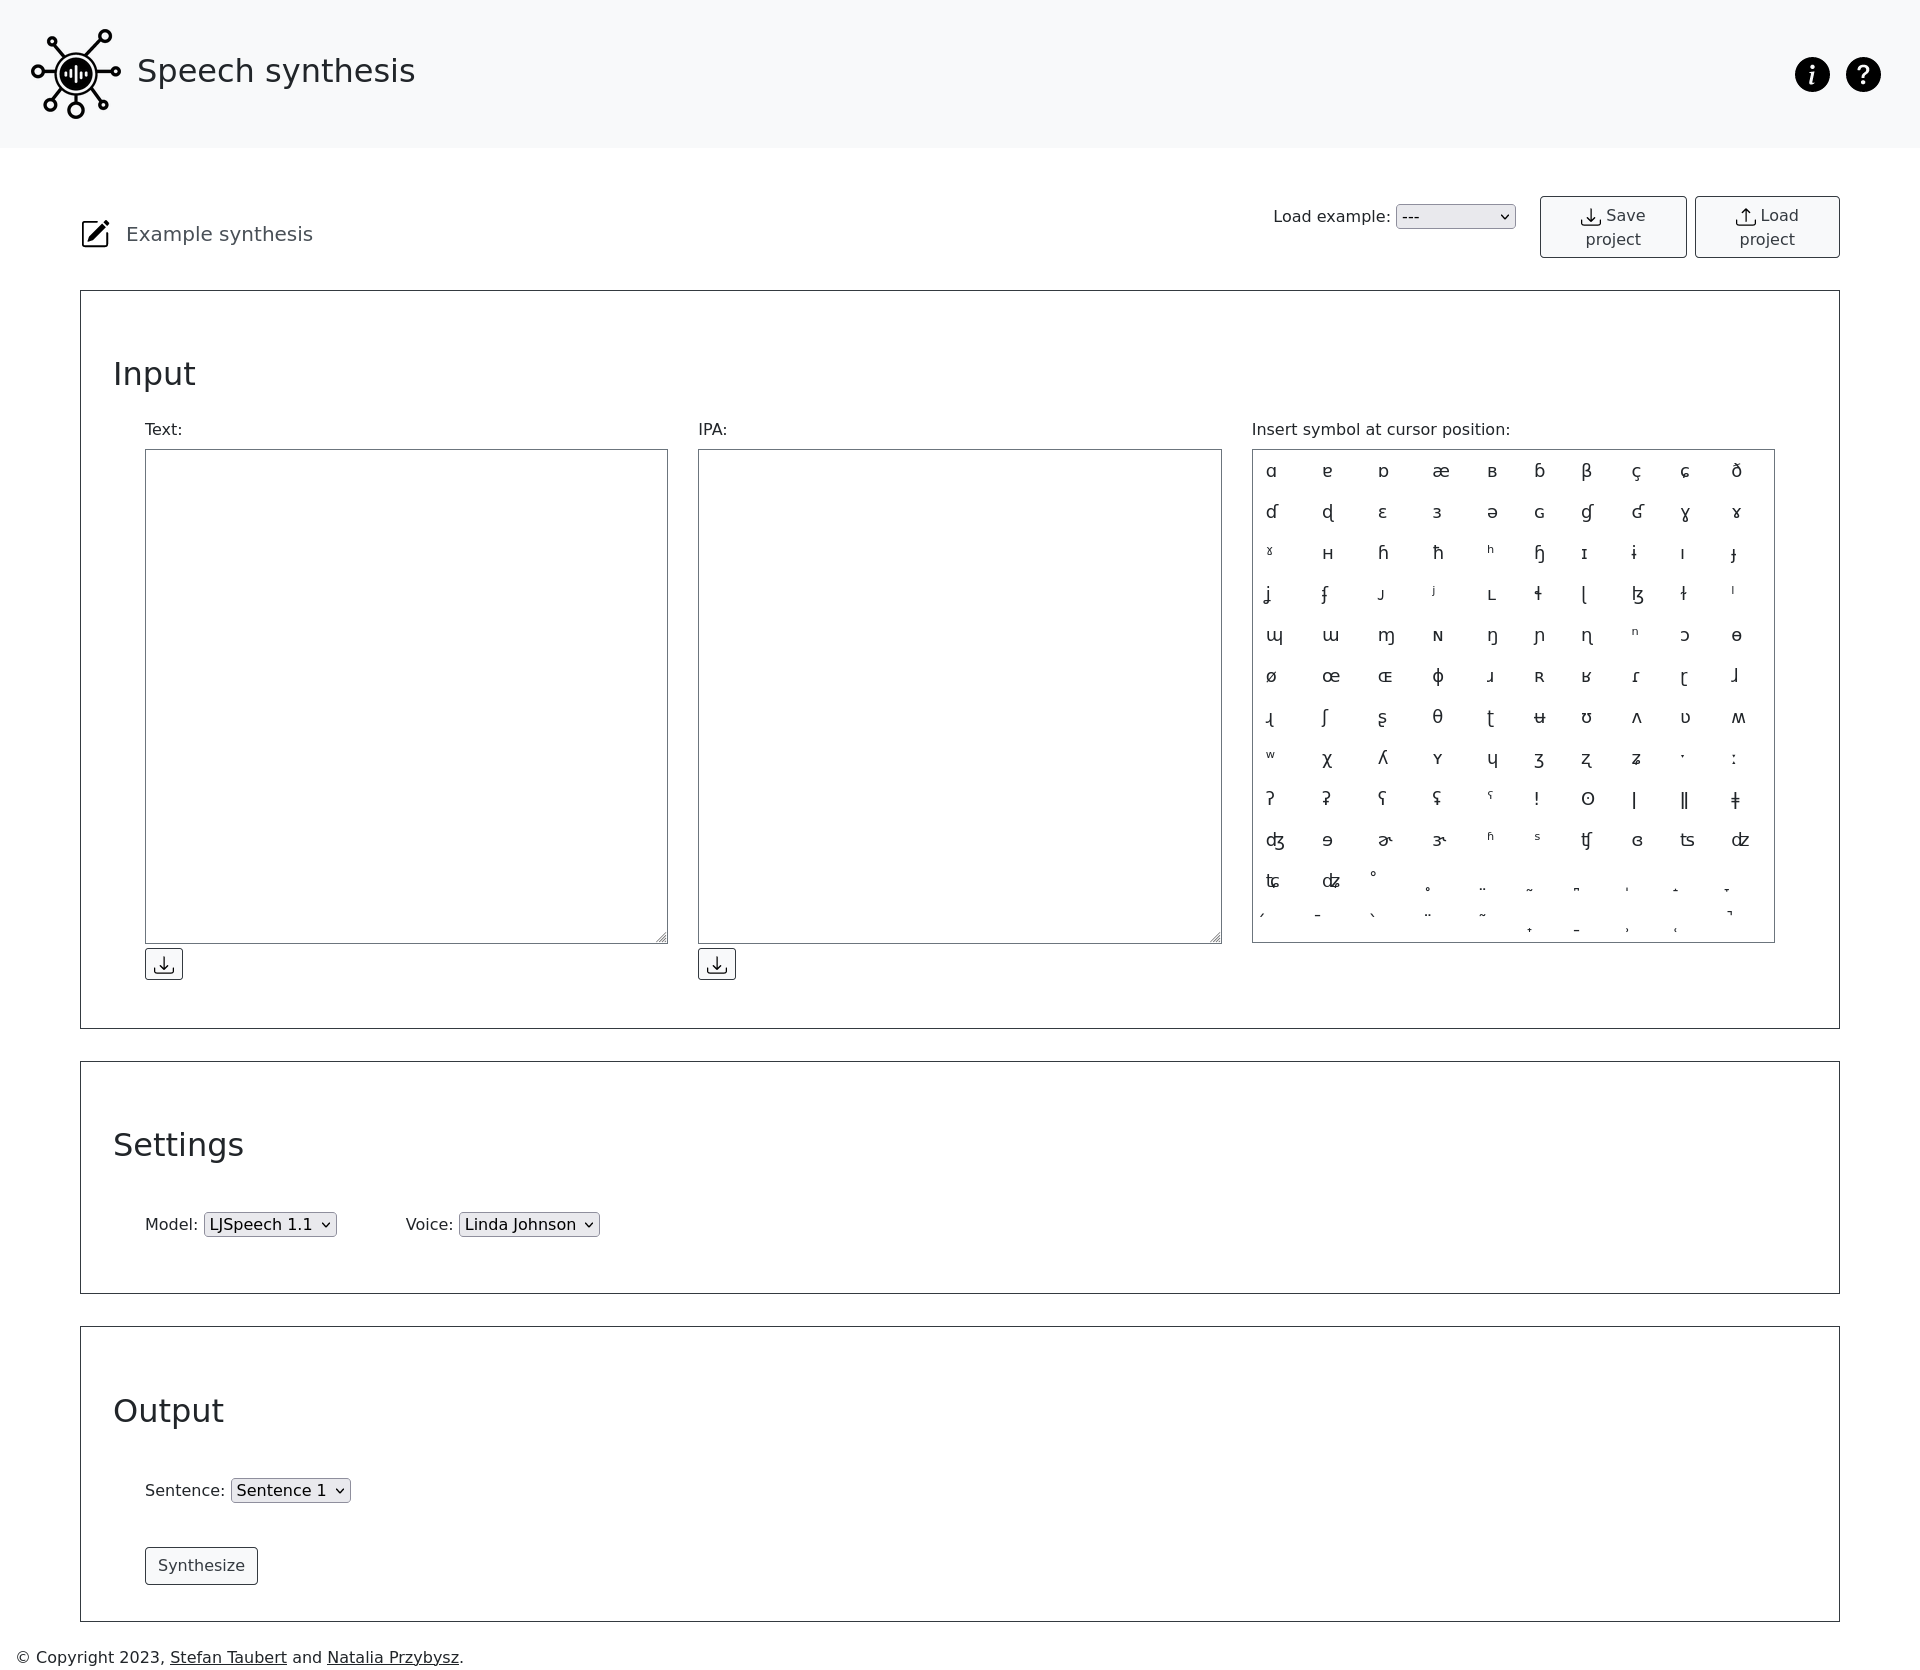
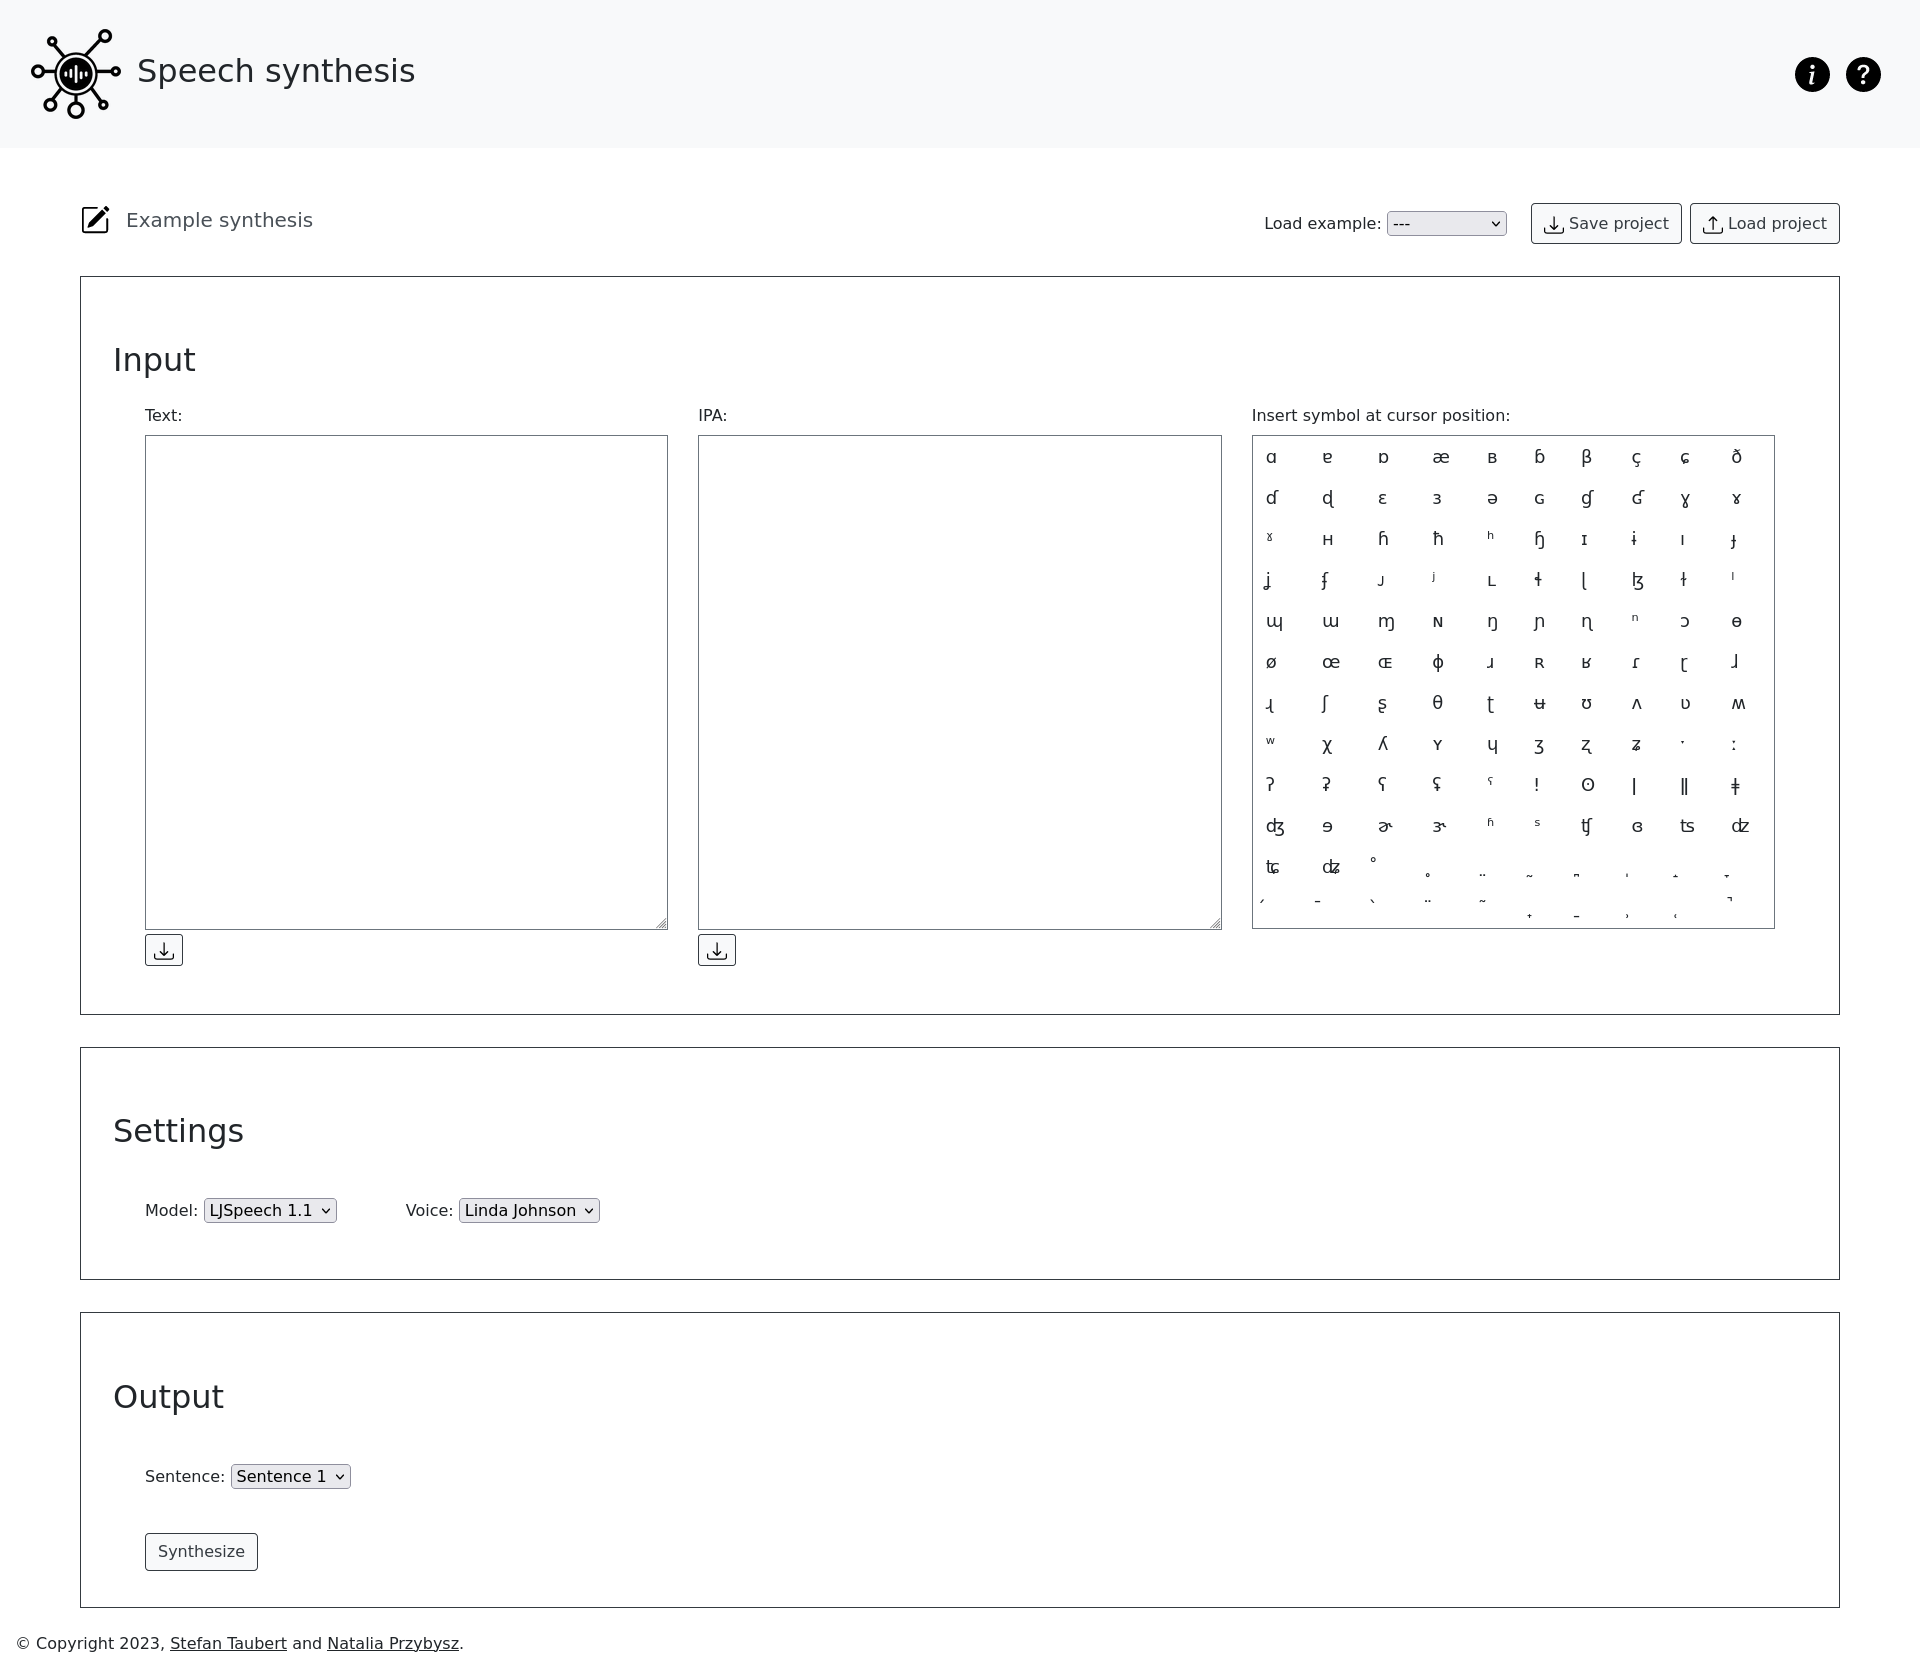
Added some padding, changed screenshot in README

diff --git a/synthesis/templates/home.html b/synthesis/templates/home.html
@@ -53,7 +53,7 @@
             {% endif %}
 
             <div class="row p-0 align-items-end mt-5 mb-1">
-                <div class="col-md-8 col-12 mb-1">
+                <div class="col-md-7 col-12 mb-1">
                     <div class="row justify-content-start">
                         <div class="col-12">
                             {{ form.project_name.errors }}
@@ -67,7 +67,7 @@
                         </div>
                     </div>
                 </div>
-                <div class="col-md-4 col-12">
+                <div class="col-md-5 col-12">
                     <div class="row justify-content-end">
                         <div class="col mb-1" style="display: flex; justify-content: end;">
                             <label for="example" class="form-label"
